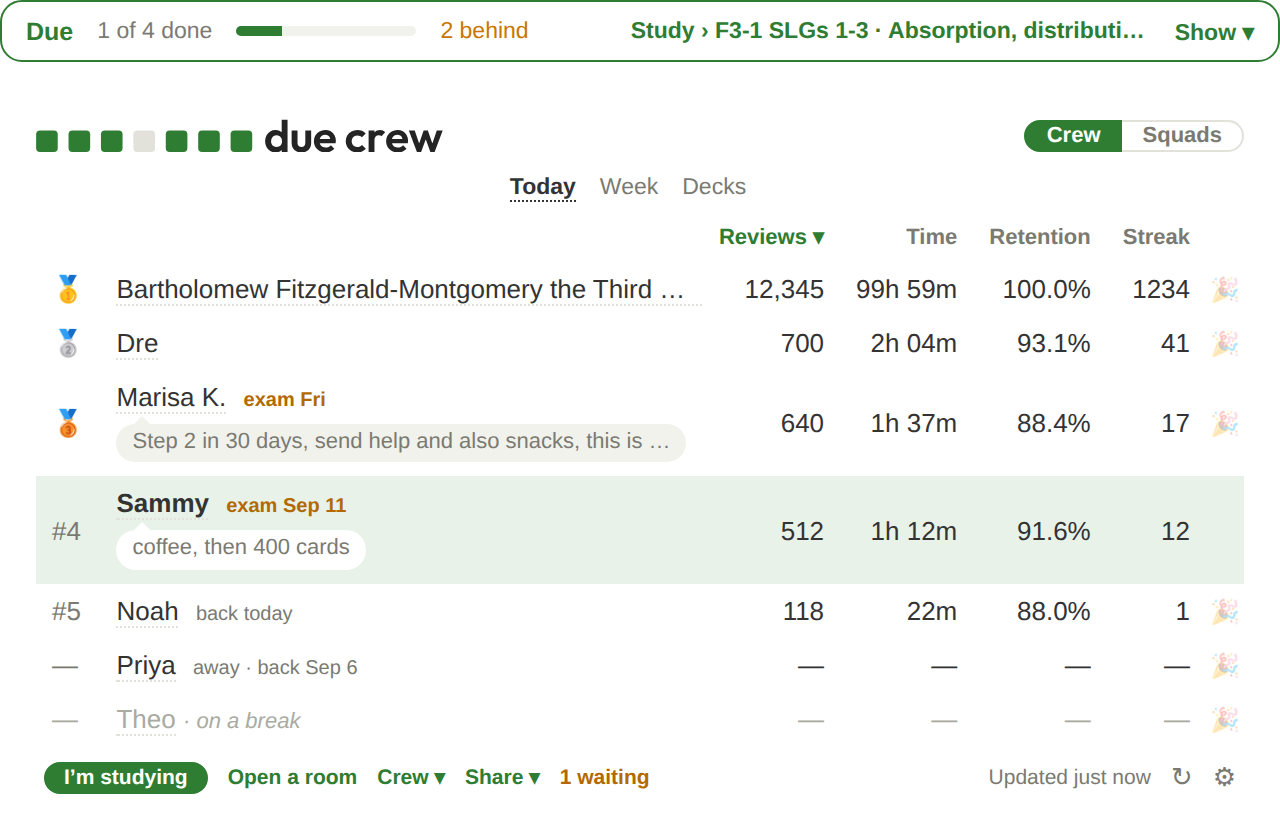
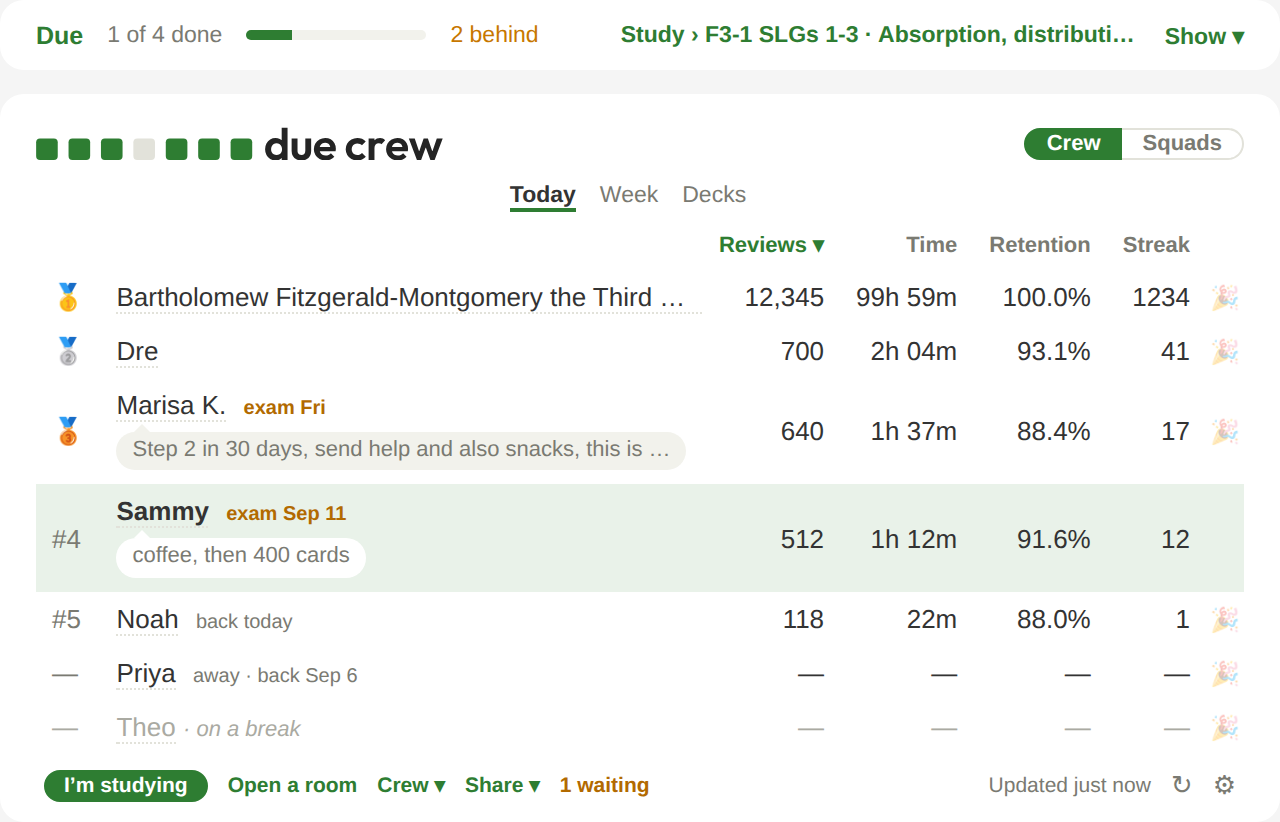
Simpler: one kind of card, less said
- The You box loses its accent border: on Anki's #f5f5f5 Decks screen it
  and the board are the same white card. The preview draws on that grey.
- One underline for every word tab (Crew's picker, squads, Insights'
  decks), on the site too.
- No boxes inside cards: Plans' ways in, a plan squad's questions and the
  bingo card are rows between rules.
- Fewer words: Insights drops its "where the topics come from" line; FSRS
  and leeches lines say it shorter; no Today label under the Today tab, no
  per-day counts on Upcoming; shorter empty states; Settings captions that
  restated their row go, the account and save lines are shorter.

Claude-Session: https://claude.ai/code/session_01T9RYS9itCJ3KTL7nGa5aCe

diff --git a/site/public/app.css b/site/public/app.css
@@ -691,7 +691,7 @@ details summary { cursor: pointer; color: var(--accent); font-weight: 600; }
 .solo { border: 1px dashed var(--line); border-radius: 10px; padding: 12px 14px; display: grid; gap: 8px; margin-top: 6px; }
 .solo .codepill { background: var(--well); border-radius: 6px; padding: 3px 9px; font-weight: 700; }
 .sqsw { display: flex; gap: 14px; justify-content: center; flex-wrap: wrap; font-size: 13px; margin-bottom: 6px; }
-.sqsw .linkish { color: var(--muted); font-weight: 600; } .sqsw .linkish.on { color: var(--ink); text-decoration: underline; } .sqsw .linkish.add { color: var(--accent); }
+.sqsw .linkish { color: var(--muted); font-weight: 600; } .sqsw .linkish.on { color: var(--ink); text-decoration: none; box-shadow: inset 0 -2px var(--accent); }  /* board.py .dc-sw, 3.8.0 */ .sqsw .linkish.add { color: var(--accent); }
 .sqline { text-align: center; font-size: 13px; margin-top: 8px; } .sqline .linkish { font-size: 13px; }
 /* 3.8.0: a plan's squad on the Squads tab: who showed up, its bingo, then its questions */
 .psq { display: grid; gap: 12px; text-align: left; max-width: 680px; margin: 0 auto; }

diff --git a/site/public/index.html b/site/public/index.html
@@ -94,7 +94,7 @@
   </div>
 
   <figure class="wide">
-    <img src="/board.png" alt="The Due Crew board on Anki's Decks screen" width="1280" height="814">
+    <img src="/board.png" alt="The Due Crew board on Anki's Decks screen" width="1280" height="822">
   </figure>
   <figure class="phone crop" aria-label="The Due Crew board, three rows">
     <table>

diff --git a/due_crew/board.py b/due_crew/board.py
@@ -128,8 +128,7 @@ def _ago(ts_str):
 
 QUIET_FOLD_DAYS = 90  # "The next round", Q3: the server's fold, the same number
 # Q2: said where people read it (here, the Settings dialog, the site's Account, the README)
-KEEP_LINE = ("Kept while you use it: after 12 months with no activity (24 when paused), "
-             "your account is deleted with everything in it. Opening Anki counts.")
+KEEP_LINE = "Unused for 12 months (24 when paused), an account is deleted with everything in it."
 
 
 def _long_quiet(ts_str, now=None):
@@ -694,8 +693,8 @@ def _css(cfg):
     }}
     #due-crew .dc-sw {{ font-size: 11.5px; padding: 2px 0 8px; }}
     #due-crew .dc-sw a {{ color: var(--dc-muted); text-decoration: none; margin-right: 12px; }}
-    #due-crew .dc-sw a.on {{ color: var(--dc-ink); font-weight: 700;
-      border-bottom: 1px dotted currentColor; }}
+    #due-crew .dc-sw a.on {{ color: var(--dc-ink); font-weight: 700; box-shadow: inset 0 -2px var(--dc-accent);
+      padding-bottom: 2px; }}
     #due-crew .dc-sw a.add {{ color: var(--dc-accent); font-weight: 700; }}
     #due-crew .dc-sw a i {{ font-style: normal; font-size: 10px; font-weight: 700; color: var(--dc-accent-ink);
       background: var(--dc-accent); border-radius: 99px; padding: 0 5px; margin-left: 4px; }}
@@ -804,7 +803,7 @@ def _css(cfg):
       border: 1px solid var(--dc-line); border-radius: 7px; padding: 5px 8px; }}
     #due-crew .tqa a, #due-crew .tq a, #due-crew .tjoin a, #due-crew .wk2 a {{
       color: var(--dc-accent); font-weight: 700; text-decoration: none; font-size: 11.5px; white-space: nowrap; }}
-    #due-crew .tq {{ border: 1px solid var(--dc-line); border-radius: 10px; padding: 7px 10px; margin-top: 6px;
+    #due-crew .tq {{ border-top: 1px solid var(--dc-line); padding: 7px 0; margin-top: 0;  /* 3.8.0: rows, not boxes */
       display: grid; gap: 3px; text-align: left; font-size: 12px; overflow-wrap: anywhere; }}
     #due-crew .tq .t {{ display: flex; gap: 8px; align-items: baseline; flex-wrap: wrap; }}
     #due-crew .tq .t .m {{ margin-left: auto; color: var(--dc-muted); font-size: 11px; white-space: nowrap; }}
@@ -889,8 +888,7 @@ def _css(cfg):
     #due-crew .dc-pways {{ display: grid; gap: 10px; margin: 4px 0 8px; }}
     #due-crew .dc-pways .t {{ font-size: 14px; }}
     #due-crew .dc-pways .ways {{ display: grid; grid-template-columns: repeat(3, minmax(0, 1fr)); gap: 8px; }}
-    #due-crew .dc-pways .way {{ border: 1px solid var(--dc-line); border-radius: 10px; padding: 9px 10px; display: grid;
-      gap: 6px; align-content: start; font-size: 12px; }}
+    #due-crew .dc-pways .way {{ display: grid; gap: 6px; align-content: start; font-size: 12px; }}
     #due-crew .dc-pways .way b {{ font-size: 13px; }}
     #due-crew .dc-pways .way a {{ color: var(--dc-accent); font-weight: 700; text-decoration: none; }}
     #due-crew .dc-pways input {{ font: inherit; font-size: 12px; padding: 3px 7px; border: 1px solid var(--dc-line);
@@ -1327,7 +1325,7 @@ def _plans_empty_html():
     return (f'<div class="dc-pways"><b class="t">Follow a plan</b><div class="ways">'
             f'<div class="way"><b>Got a code?</b><input id="dc-plancode" placeholder="N4AP ULM2" '
             f'onkeydown="if(event.key===\'Enter\'){{{add}}}"><a href="#" onclick="{add}">Follow</a></div>'
-            f'<div class="way"><b>Find one</b><a href="#" onclick="{_pycmd("planlibrary")}">Library on duecrew.com &#8599;</a></div>'
+            f'<div class="way"><b>Find one</b><a href="#" onclick="{_pycmd("planlibrary")}">The library &#8599;</a></div>'
             f'<div class="way"><b>Make one</b><a href="#" onclick="{_pycmd("planmake")}">Pick a deck&hellip;</a></div>'
             f'</div></div>')
 
@@ -1572,15 +1570,16 @@ def _you_insights(ins):
         f'onclick="{_pycmd("insdeck:" + str(int(d["did"])))}">{e(str(d["name"]))}</a>' for d in decks) + "</div>")
     plan = ins.get("plan")
     if plan:  # its exam and its topics
-        ctx = (f'From your plan <a href="#" onclick="{_pycmd("duetab:plans")}">'
+        ctx = (f'<a href="#" title="The plan on this deck" onclick="{_pycmd("duetab:plans")}">'
                f'{e(str(plan.get("name") or "Plan"))} &rsaquo;</a>')
     elif ins.get("exam"):
-        ctx = "From this deck&rsquo;s tags and your exam date."
+        ctx = ""
     else:
-        ctx = (f'From this deck&rsquo;s tags. '
-               f'<a href="#" onclick="{_pycmd("settings:privacy")}">Add your exam date&hellip;</a>')
-    # 3.8.0: the decks and where the topics come from, one row
-    return f'<div class="ihead">{pick}<span class="ictx">{ctx}</span></div>' + _insights_html(did, ins.get("view") or {})
+        ctx = f'<a href="#" onclick="{_pycmd("settings:privacy")}">Exam date&hellip;</a>'
+
+    # 3.8.0: the decks, and the plan on this one (or a way to my exam date), one row
+    head = f'<div class="ihead">{pick}<span class="ictx">{ctx}</span></div>' if pick or ctx else ""
+    return head + _insights_html(did, ins.get("view") or {})
 
 
 def _ins_week(did, w, aim, today):
@@ -1699,14 +1698,14 @@ def _insights_html(did, v):
     f = v.get("fsrs")
     if f:
         out += (f'<div class="iline" title="Reviews of cards 1&ndash;3 days since their last review, 4 weeks: '
-                f'{int(f["right"])}% right of {int(f["n"]):,}">Your newest cards come back {int(f["right"])}% right, '
-                f'not the {int(f["target"])}% Anki aims for. '
+                f'{int(f["right"])}% right of {int(f["n"]):,}">Newest cards {int(f["right"])}% right, '
+                f'Anki aims for {int(f["target"])}% &middot; '
                 f'<a href="#" onclick="{_pycmd(f"insfsrs:{did}")}">Optimize FSRS</a> '
                 f'<a class="q" href="#" onclick="{_pycmd(f"insfsrsno:{did}")}">Not now</a></div>')
     lee = int(v.get("leeches") or 0)
     if lee:
         # 3.8.0: from the plan card; a leech is the deck's
-        out += (f'<div class="iline">{lee:,} leech{"es stay" if lee != 1 else " stays"} suspended in this deck. '
+        out += (f'<div class="iline">{lee:,} suspended leech{"es" if lee != 1 else ""} &middot; '
                 f'<a href="#" onclick="{_pycmd(f"insleeches:{did}")}">See them</a></div>')
     if not out:
         return '<div class="tq0">Insights fill in after a week of reviews.</div>'
@@ -1819,7 +1818,7 @@ def _week_html(card, pid):
                         + (' &middot; today' if d["today"] else "") + '</b>'
                         f'{rows}{back}</div>')
     key = ('<div class="pkey"><span><i class="kn"></i>new to you</span><span><i class="kc"></i>seen or in your Anki by then</span>'
-           '<span>longest = busiest day</span></div>') if loaded else ""
+           '</div>') if loaded else ""
     return out + f'<div class="pwk">{cells}</div>{key}{details}'
 
 
@@ -2026,8 +2025,7 @@ def _decks_body(data, deltas=None, sticking=None):
     groups, extras = build_deck_groups(data["entries"])
     if not groups and not extras:
         return ('<div class="dc-line">No shared decks yet. '
-                f'<a href="#" onclick="{_pycmd("decks")}">Pick decks to share</a> '
-                '&mdash; matching decks pair up on their own.</div>')
+                f'<a href="#" onclick="{_pycmd("decks")}">Pick decks to share</a></div>')
     html = ""
     for g in groups:
         label = _html.escape(str(g["label"]))
@@ -2084,8 +2082,7 @@ def _squads_html(view, cfg):
         return sw + _plan_squad_html(str(view.get("pid") or ""), view)
     name = _html.escape(str(view.get("name") or "?"))
     if state == "none":
-        return (sw + '<div class="dc-line">A private board '
-                'for any group. Join with a code, or create one.</div>')
+        return sw + '<div class="dc-line">No squads yet.</div>'  # the way in is right above it
     if state == "loading":
         return sw + '<div class="dc-line">Fetching&hellip;</div>'
     if state == "error":
@@ -2220,7 +2217,8 @@ BINGO_CSS = """
     /* the whole card's frame is #due-crew.bg-full itself: its rules say so */
     #due-crew .bg-card, #due-crew.bg-full, #due-crew .bg-row, #due-crew .bg-bar, #due-crew .bg-info { text-align: left; }
     #due-crew [hidden] { display: none !important; }
-    #due-crew .bg-card { border: 1.5px solid var(--dc-accent); border-radius: 10px; padding: 9px 12px; margin: 2px 0 10px;
+    #due-crew .bg-card { border-top: 1px solid var(--dc-line); border-bottom: 1px solid var(--dc-line); padding: 9px 0;
+      margin: 2px 0 10px;  /* 3.8.0: a row between rules, no box */
       display: flex; align-items: center; gap: 12px; flex-wrap: wrap; font-size: 12px; }
     #due-crew .bg-card .bg-t { display: grid; gap: 1px; flex: 1 1 180px; min-width: 0; }
     #due-crew .bg-card .bg-t span, #due-crew .bg-q { color: var(--dc-muted); }
@@ -2794,8 +2792,7 @@ def _settings_you(view):
             + '</div>')
     # 3.6.5, P6: feedback, here as well as in Tools › Due Crew
     out += ('<div class="st-box">'
-            + _st_row("Feedback", f'<a class="st-lk" href="#" {_st_click("setfeedback")}>Send&hellip;</a>',
-                      "What's working and what isn't")
+            + _st_row("Feedback", f'<a class="st-lk" href="#" {_st_click("setfeedback")}>Send&hellip;</a>')
             + '</div>')
     out += (f'<div class="st-foot"><a class="st-lk" href="#" {_st_click("setsignout")}>Sign out</a>'
             f'<a class="st-lk st-danger" href="#" {_st_click("setdelete")}>Delete account&hellip;</a></div>'
@@ -2832,10 +2829,9 @@ def _settings_board(cfg):
                       "Its side of Anki's top bar")
             + _st_row("Crew name in shares", label_in)
             + '</div><div class="st-h">Due</div><div class="st-box">'
-            + _st_row("Today, Upcoming, Later", _st_switch("due_show", g("due_show", True), "Today, Upcoming, Later"),
-                      "Your plans' dates and your own to-dos, on top")
+            + _st_row("Today, Upcoming, Later", _st_switch("due_show", g("due_show", True), "Today, Upcoming, Later"))
             + _st_row("Suggestions", _st_switch("due_suggest", g("due_suggest", True), "Suggestions"),
-                      "From your own Anki: today's misses, new leeches")
+                      "Today's misses, new leeches")
             + _st_row("Recover leeches", _st_switch("due_leeches", g("due_leeches", False), "Recover leeches"),
                       "Each morning, as new cards")
             + '</div>'
@@ -2872,8 +2868,8 @@ def _settings_privacy(cfg):
     return ('<div class="st-h">What your crew and squads see</div><div class="st-box" role="radiogroup">'
             + radio("numbers", "My numbers") + nums
             + radio("showup", "Just that I studied", "Squares, no numbers. You see everyone the same way.")
-            + radio("paused", "Nothing for now", "Your crew sees &ldquo;on a break&rdquo;. Your streak keeps counting. "
-                    "A paused account is kept 24 months without activity; opening Anki counts.")
+            + radio("paused", "Nothing for now", "Your crew sees &ldquo;on a break&rdquo;; your streak keeps counting. "
+                    "Kept 24 months without activity.")
             + '</div><div class="st-h">Dates your crew sees</div><div class="st-box">'
             + _st_row("&#128214; Exam", exam_ctl, "Shown for the two weeks before")
             + _st_row("&#9992;&#65039; Away", away_ctl)
@@ -2896,8 +2892,7 @@ def settings_html(view, cfg):
                     for k, t in SETTINGS_TABS)
     body = (_settings_you(view) if tab == "you" else _settings_board(cfg) if tab == "board"
             else _settings_privacy(cfg))
-    foot = ("Privacy, dates, status and accent are saved to your account. The rest stays on this computer."
-            if view.get("signed_in") else "")
+    foot = "Privacy, dates, status and accent follow your account." if view.get("signed_in") else ""
     return (f'<div id="due-crew" class="dc-frame dc-set">{_css(cfg)}<style>{SETTINGS_CSS}</style>'
             f'<div class="dc-head"><span class="dc-title">{board_mark()}</span><span>{pills}</span></div>'
             f'<div class="st-bar"><a class="st-back" href="#" {_st_click("setclose")}>&lsaquo; Board</a><b>Settings</b></div>'
@@ -3510,8 +3505,8 @@ def profile_overlay_js(profile):
 # ---- Due: the day's to-do, above the board ----
 
 DUE_CSS = """
-    #due-crew .du { text-align: left; border: 1.5px solid var(--dc-accent); border-radius: 11px;
-      padding: 9px 12px 10px; margin: 0 0 14px; display: grid; gap: 6px; }
+    #due-crew .du { text-align: left; border-radius: 12px; padding: 12px 18px; margin: 0 0 14px;
+      display: grid; gap: 6px; }
     #due-crew .du > * { min-width: 0; }
     #due-crew .du a { text-decoration: none; }
     #due-crew .du-h { display: flex; align-items: center; gap: 8px; flex-wrap: wrap; }
@@ -3556,7 +3551,7 @@ DUE_CSS = """
     #due-crew .du-sec { font-size: 10.5px; font-weight: 700; letter-spacing: .05em; text-transform: uppercase;
       color: var(--dc-muted); padding-top: 4px; }
     #due-crew .du-sec.warn { color: #c77700; }
-    #due-crew .du-bh { display: grid; gap: 0; }
+    #due-crew .du-bh { display: grid; gap: 0; padding-bottom: 8px; }
     #due-crew .du-line { display: flex; justify-content: space-between; gap: 6px 12px; flex-wrap: wrap; font-size: 12px;
       padding: 5px 0 1px; border-top: 1px solid var(--dc-line); color: var(--dc-muted); }
     #due-crew .du-line b { color: var(--dc-ink); font-weight: 600; }
@@ -3585,7 +3580,7 @@ DUE_CSS = """
     #due-crew .du-ln.done > span:nth-child(2) { color: var(--dc-muted); text-decoration: line-through; }
     #due-crew .du-q { color: var(--dc-faded); font-size: 11.5px; padding: 3px 0 3px 25px; }
     #due-crew .du-evl { color: #c77700; font-weight: 700; font-size: 12px; padding-left: 25px; }
-    #due-crew .du-one { display: flex; align-items: center; gap: 6px 12px; padding: 7px 12px; white-space: nowrap; }
+    #due-crew .du-one { display: flex; align-items: center; gap: 6px 12px; padding: 10px 18px; white-space: nowrap; }
     #due-crew .du-one > * { flex: none; }
     #due-crew .du-one .wbar { flex: 0 1 90px; width: auto; min-width: 24px; margin: 0; }
     #due-crew .du-one .sp { flex: 1 1 0; }
@@ -3821,7 +3816,7 @@ def _due_behind(v):
     out += "".join(_due_mine(r) for r in v["behind_mine"])
     if v["behind_more"]:
         out += f'<div class="du-q">and {int(v["behind_more"])} more</div>'
-    return out + '<div class="du-sec">Today</div></div>' if v["tab"] == "today" else out + "</div>"
+    return out + "</div>"
 
 
 def _due_add(v, default):
@@ -3945,7 +3940,7 @@ def _due_html(v, more=(), more_tab=None, more_body="", folded=None):
             if dd.get("quiet"):
                 body += f'<div class="du-q">{e(dd["label"])} &middot; nothing due</div>'
                 continue
-            what = "review day" if dd["review"] and not dd["n"] else (f'{dd["n"]} thing{"s" if dd["n"] != 1 else ""}' if dd["n"] else "")
+            what = "review day" if dd["review"] and not dd["n"] else ""  # 3.8.0: its rows are the count
             plus = (f'<a href="#" class="plus" title="Add a to-do for this day" '
                     f'onclick="dcDue.plus(\'{e(dd["day"])}\');return false;">+</a>')
             body += (f'<div class="du-dh{" today" if dd["today"] else ""}"><span>{e(dd["head"])}</span>'
@@ -3957,6 +3952,6 @@ def _due_html(v, more=(), more_tab=None, more_body="", folded=None):
         if v["later"]:
             body += "".join(_due_mine(r) for r in v["later"])
         else:
-            body += '<div class="du-empty">Nothing here. A to-do with no day waits here until you give it one.</div>'
+            body += '<div class="du-empty">Nothing here.</div>'
         body += _due_add(v, "later")
     return f'<div class="du" data-today="{today}">{head}{toast}{body}</div>'

diff --git a/tests/test_due_crew.py b/tests/test_due_crew.py
@@ -5904,6 +5904,12 @@ def test_you_bubble_v380():
     foot = bh.split('class="dc-foot"')[1]
     check("refined: one pill in the footer, I'm studying; Open a room and who's waiting are words",
           foot.count('class="pb') == 1 and ">Open a room</a>" in foot and 'class="warn"' in foot and "1 waiting" in foot)
+    css = board.render(data, {"period": "today"}, 0, due=dv2, plans=plans, you={"tab": "today", "plans": plans})
+    check("simpler: the box is a card like the board's, no border of its own; one underline for every word tab",
+          "#due-crew .du { text-align: left; border-radius: 12px; padding: 12px 18px;" in css
+          and "border: 1.5px solid var(--dc-accent)" not in css.split("DUE_CSS")[0].split("#due-crew .du {")[1][:120]
+          and "box-shadow: inset 0 -2px var(--dc-accent)" in css and "1px dotted currentColor" not in css)
+    check("simpler: Behind, then today's rows, no Today label under the Today tab", 'du-sec">Today<' not in th)
     # the glue: only the tab on screen is worked out
     calls = []
     saved = (team_flow.plan_lines, team_flow.you_view, plan_flow.morning_opened, dc.mw.col, due_flow._today)
@@ -6938,7 +6944,7 @@ def test_plan_load_3781():
     html = board._week_html({"week": wk, "week_offset": 0}, "pid1")
     check("load: today says what's to go, ahead what's new", "2 to go" in html and "2 new" in html, html[:500])
     check("load: one bar a day on top, to the week's scale, and a key", html.count('class="abar') == 2 and 'width:100%' in html
-          and 'width:75%' in html and "new to you" in html and "longest = busiest day" in html)
+          and 'width:75%' in html and "new to you" in html and "busiest" not in html)
     check("load: a date ahead's details say what's new and what's seen before",
           "2 of 3 new &middot; 1 already seen or in your Anki" in html and "2 of 4 seen" in html)
     past = P.week_view({"units": [{"id": "a", "name": "A", "opens": "2026-10-07"}]}, {}, "2026-10-08", "2026-10-05", ld=ld)
@@ -7028,10 +7034,10 @@ def test_insights_379():
     check("insights: the week in time, today marked, the event named",
           "about 2 h 40 a day to Fri" in html and "the last 7 days: 40 min" in html and ">Today<" in html)
     check("insights: Optimize FSRS and Not now",
-          "come back 85% right, not the 90% Anki aims for" in html and "duecrew:insfsrs:10" in html
+          "Newest cards 85% right, Anki aims for 90%" in html and "duecrew:insfsrs:10" in html
           and "duecrew:insfsrsno:10" in html)
     check("insights: 3.8.0, the deck's leeches, from the plan card, with See them",
-          "2 leeches stay suspended in this deck." in html and "duecrew:insleeches:10" in html)
+          "2 suspended leeches &middot;" in html and "duecrew:insleeches:10" in html)
     check("insights: no plan, no behind line", "behind" not in board._insights_html(10, dict(view, pid=None)))
     loose = board._insights_html(10, dict(view, aim={"day": "2026-09-04", "name": "Quiz", "in": 3, "scoped": False}))
     check("insights: an event no date preps for: the box goes by the day, not the event's name",
@@ -7049,12 +7055,13 @@ def test_insights_379():
           'class="dc-sw"' in yh and '<a class="on" href="#" title="Step 1" onclick="pycmd(\'duecrew:insdeck:10\')' in yh
           and "duecrew:insdeck:20" in yh and "<img" not in yh, yh[:600])
     check("you › insights: with a plan on the deck, it says so, with the way to it",
-          "From your plan <a" in yh and "&lt;img" in yh and "duecrew:duetab:plans" in yh)
+          "&lt;img" in yh and "<img" not in yh and "duecrew:duetab:plans" in yh and "From" not in yh)
     lone = board._you_insights(dict(ins, decks=ins["decks"][:1], plan=None))
     check("you › insights: one deck, no picker; no plan and no exam date, the way to set one",
-          'class="dc-sw"' not in lone and "From this deck&rsquo;s tags." in lone and "duecrew:settings:privacy" in lone)
-    check("you › insights: no plan, my exam date set", "From this deck&rsquo;s tags and your exam date." in
-          board._you_insights(dict(ins, plan=None, exam=True)))
+          'class="dc-sw"' not in lone and "Exam date&hellip;</a>" in lone and "duecrew:settings:privacy" in lone)
+    check("you › insights: no plan, my exam date set: the decks alone", 'class="ictx"></span>' in
+          board._you_insights(dict(ins, plan=None, exam=True)) and 'class="ihead"' not in
+          board._you_insights(dict(ins, decks=ins["decks"][:1], plan=None, exam=True)))
     check("you › insights: no decks reviewed yet", "Insights fill in" in board._you_insights({"decks": []}))
     # ---- the glue, on a collection ----
     conn = sqlite3.connect(":memory:")

diff --git a/tools/preview.py b/tools/preview.py
@@ -426,7 +426,7 @@ stranger_js = board.stranger_card_js({"uid": "u2", "name": "Maya R.",
 page = f"""<!doctype html><html><head><meta charset="utf-8">
 <title>Due Crew board preview</title>
 <style>
-  body {{ margin: 0; padding: 24px 12px 60px; background: #ffffff;
+  body {{ margin: 0; padding: 24px 12px 60px; background: #f5f5f5;  /* Anki's canvas (26.x) */
          font-family: -apple-system, sans-serif; }}
   body.nightMode {{ background: #2c2c2c; color: #d7d7d7; }}
   /* Anki 26.x deck screen: every table gets a translucent glass fill */

diff --git a/docs/history.md b/docs/history.md
@@ -831,3 +831,18 @@ every release that changes how something works.
   Insights' decks and where its topics come from share a row ("From your
   plan …", "From this deck's tags"). The footer keeps one pill, I'm
   studying; Open a room and "N waiting" are words, on the site too.
+  Simpler (3.8.0, Sam: "the due section has a border, but the crew
+  doesn't"; trust the person over explaining): Anki paints the Decks
+  screen #f5f5f5 (26.x), so the box and the board are the same white card,
+  and the box lost its accent border (the preview draws on that grey now,
+  so it shows what Anki shows). One underline for every word tab: the Crew
+  picker, a squad's, Insights' decks (was dotted). Boxes inside cards went:
+  Plans' three ways in, a plan squad's questions, the bingo card (rows
+  between rules now). Words cut: Insights says nothing about where its
+  topics come from (the plan's name links to it; with no exam date set,
+  "Exam date…"); "Newest cards 85% right, Anki aims for 90%"; "3 suspended
+  leeches"; no "Today" label under the Today tab, no "3 things" on a day
+  that lists them, "Nothing here." on an empty Later; "No squads yet." and
+  "No shared decks yet. Pick decks to share"; the week key's "longest =
+  busiest day"; Settings' captions that restated their row, a shorter
+  account line (KEEP_LINE) and save line.

diff --git a/README.md b/README.md
@@ -5,7 +5,7 @@
 
 Your friends' studying next to yours, on Anki's Decks screen.
 
-<img alt="The Due Crew board on the Decks screen, your day folded above it" src="https://raw.githubusercontent.com/sammyc2472/due-crew/main/docs/images/board.png?v=4" width="600">
+<img alt="The Due Crew board on the Decks screen, your day folded above it" src="https://raw.githubusercontent.com/sammyc2472/due-crew/main/docs/images/board.png?v=5" width="600">
 
 Studying for a big exam is more fun with friends! Due Crew puts your friends on
 Anki's Decks screen: who's studied today, who's studying now, how far
@@ -61,7 +61,7 @@ and **Insights**, for any deck, plan or not, shows the cards Anki won't
 show you before your exam, what isn't sticking yet, and your week in
 time, worked out in your Anki. The board under it is your people.
 
-<img alt="Plans, above the board: a plan's week" src="https://raw.githubusercontent.com/sammyc2472/due-crew/main/docs/images/plans.png?v=4" width="600">
+<img alt="Plans, above the board: a plan's week" src="https://raw.githubusercontent.com/sammyc2472/due-crew/main/docs/images/plans.png?v=5" width="600">
 
 ## Install
 
